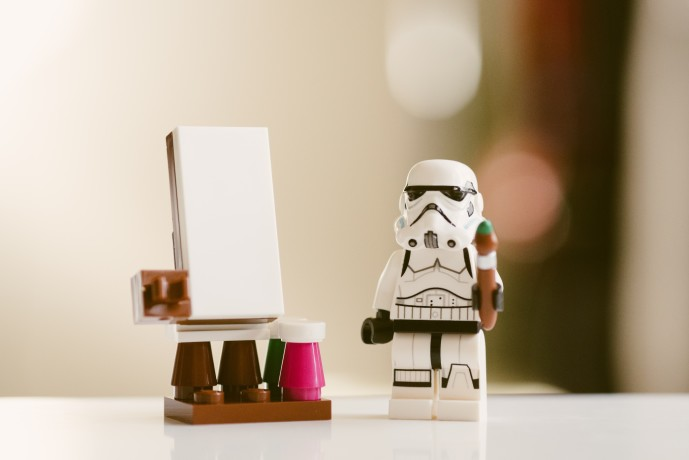
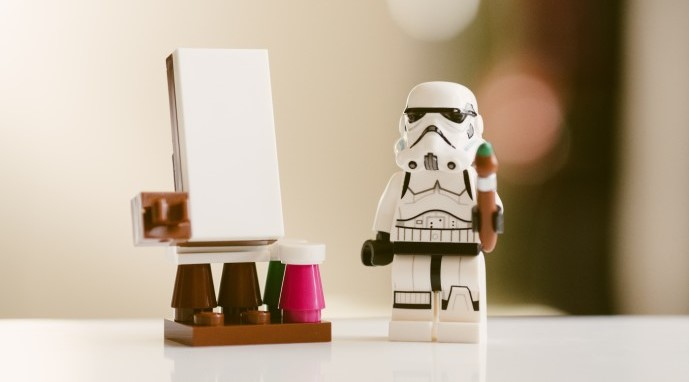
change pictures size

Changed region(s): [[0.0, 0.0, 1.0, 0.9503], [0.8839, 0.0, 0.9448, 0.144]]

diff --git a/study.html b/study.html
@@ -28,7 +28,7 @@
   </nav>
   <div class="wrapper">
     <div>
-      <h2>Study</h2>
+      <h2>Study With Us</h2>
     </div>
     <div class="course">
 

diff --git a/main.css b/main.css
@@ -421,7 +421,7 @@ a {
 .study a:hover,
 .research a:hover,
 .news a:hover {
-  text-decoration: underline;
+
   color: #791B99;
 }
 
